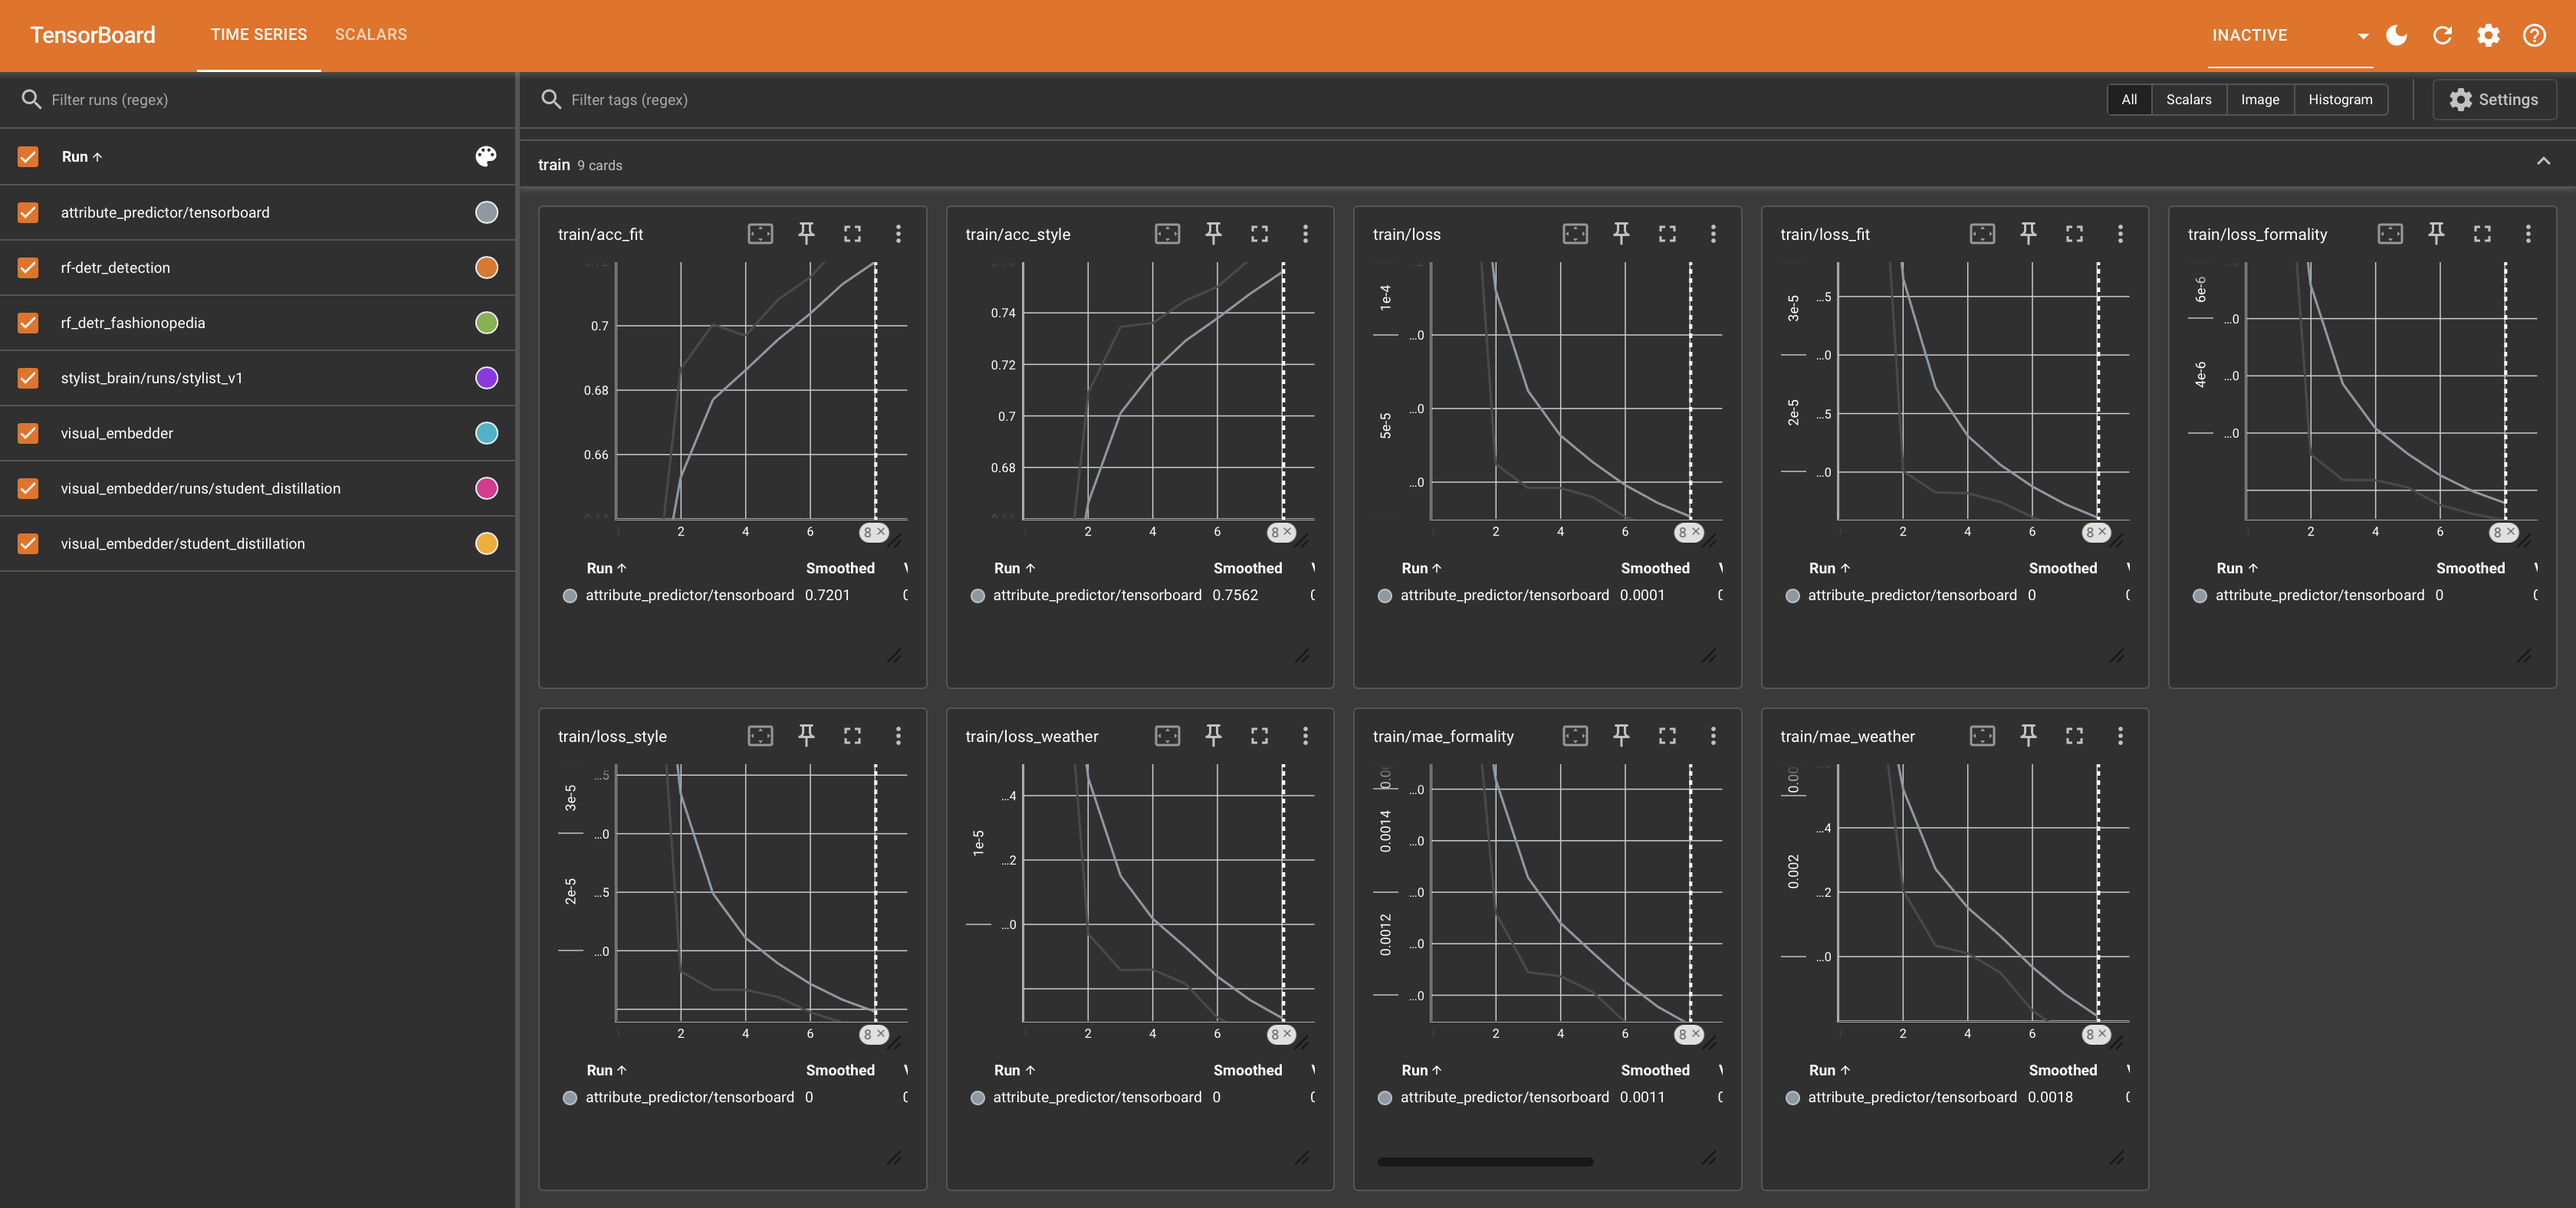
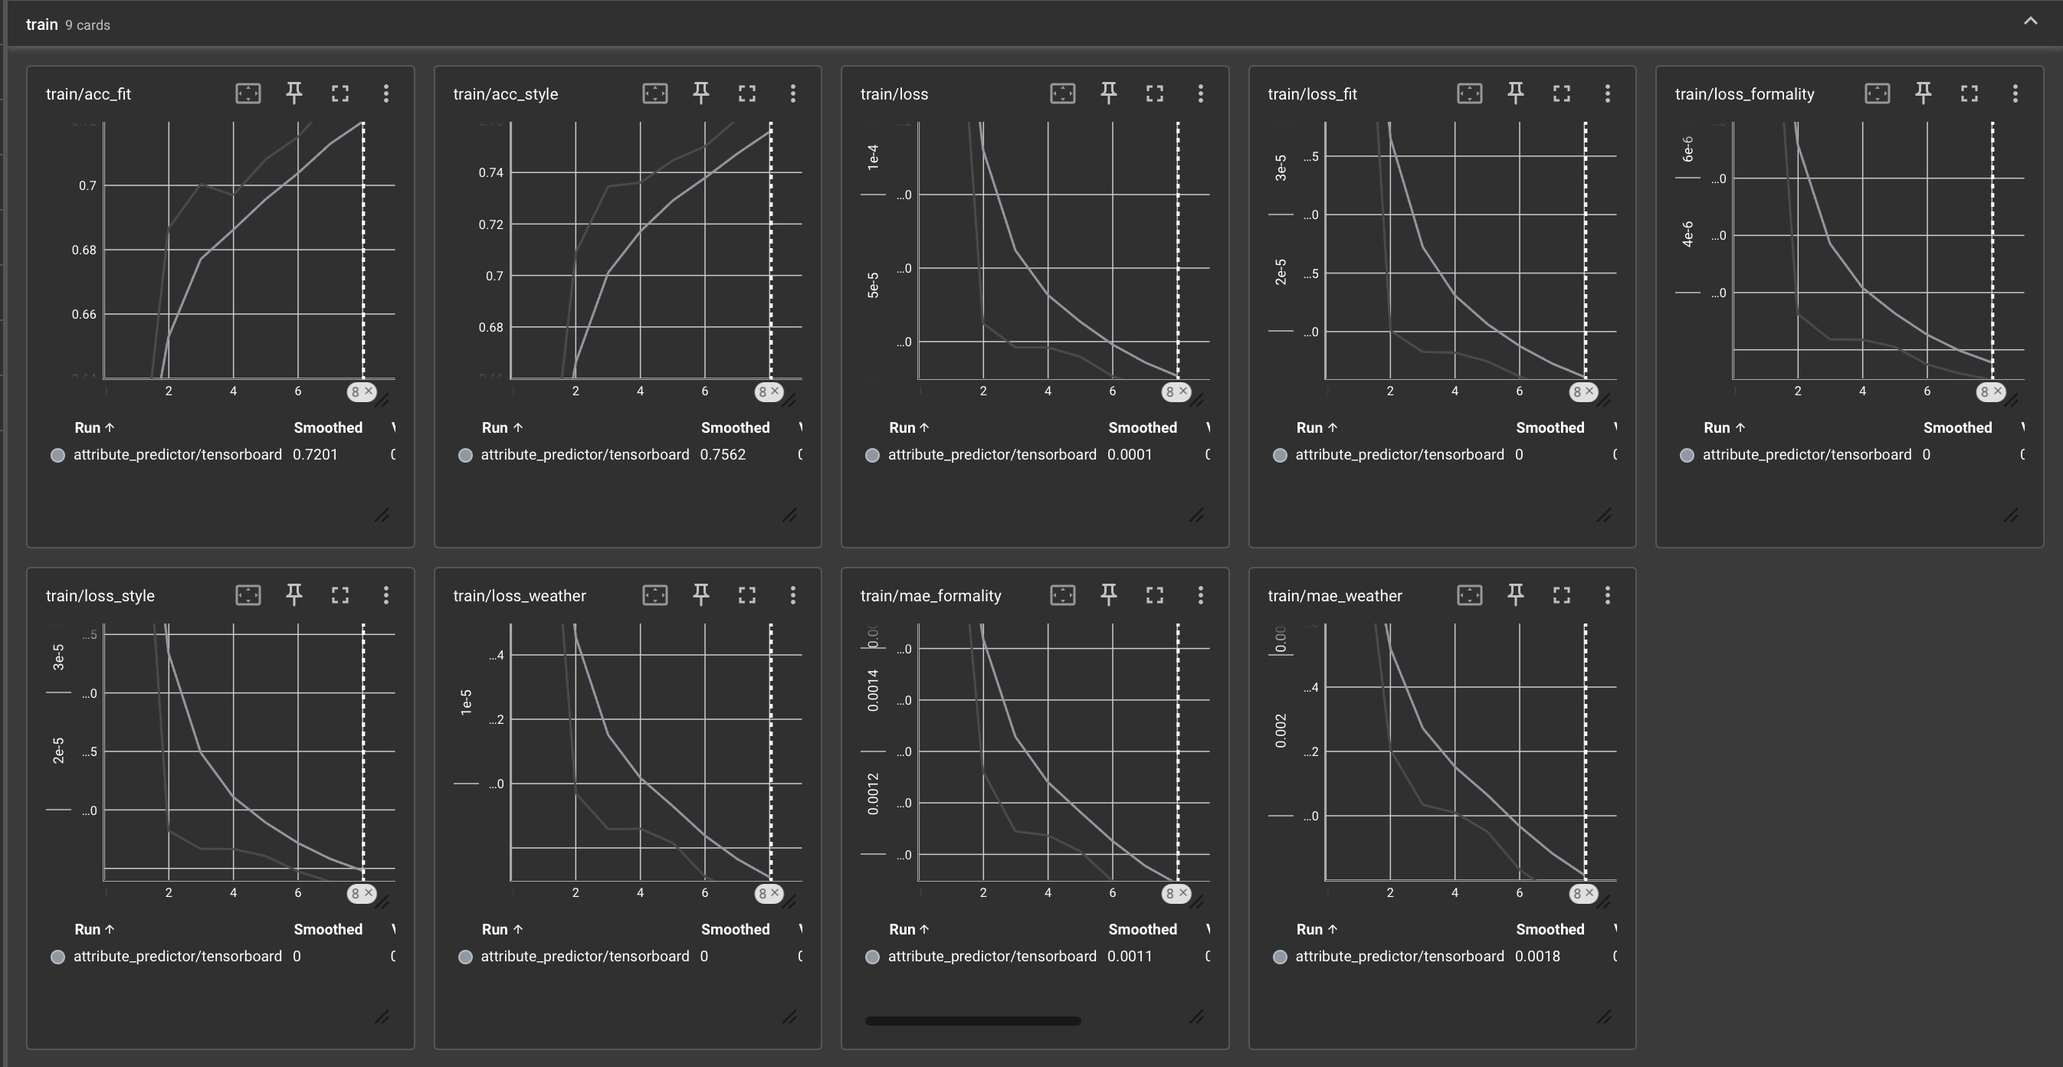
Enhance TensorBoard images in README (#11)
* Enhance TensorBoard images in README

Added a screenshot of the dashboard to TensorBoard Training Dashboard section.

* Cropped attribute-pred-train.png and added it to the README

diff --git a/readme.md b/readme.md
@@ -288,7 +288,9 @@ http://localhost:6006
 ```
 
 <p align="center">
-  <img src="docs/tensorboard-imgs/training-overview.png" width="900" alt="TensorBoard Training Dashboard">
+  <img src="docs/tensorboard-imgs/training-overview.png" width="900" alt="TensorBoard Training Dashboard 1">
+  <img src="docs/tensorboard-imgs/attribute-pred-train.png" width="900" alt="TensorBoard Training Dashboard 2">
+  <img src="docs/tensorboard-imgs/attribute-pred-valid.png" width="900" alt="TensorBoard Training Dashboard 3">  
 </p>
 
 ---
